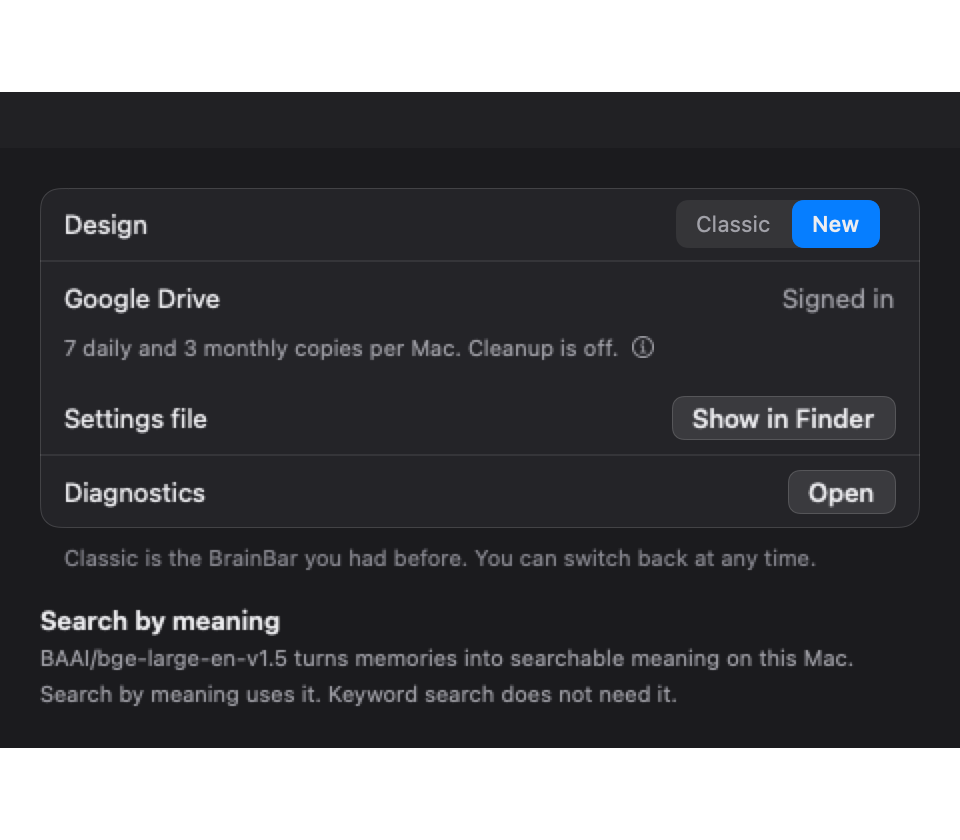
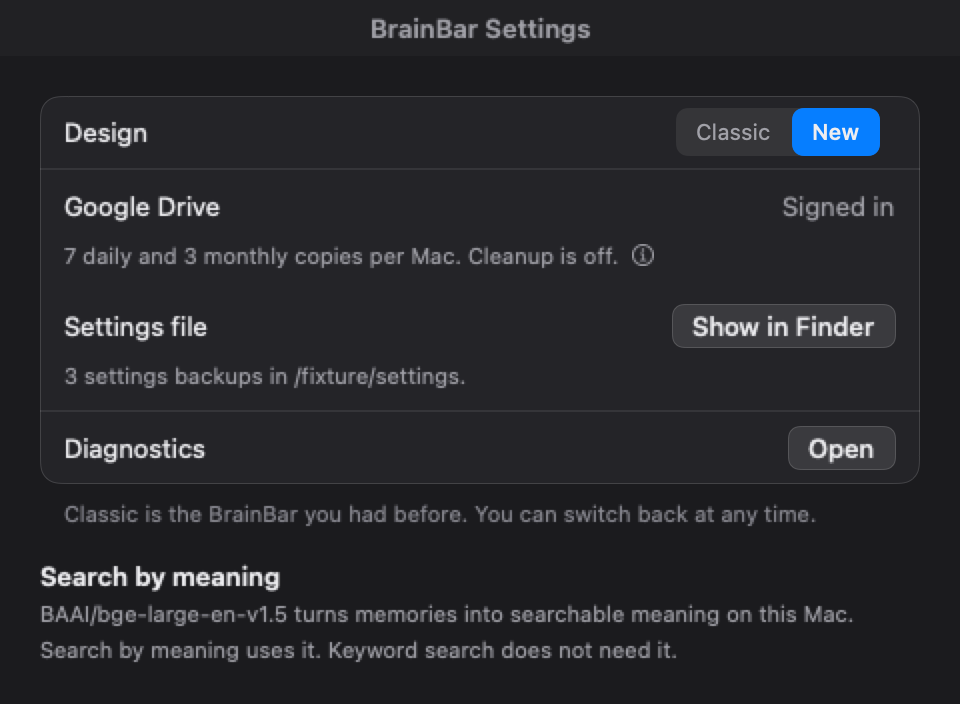
docs: refresh Drive retention review pictures

diff --git a/proof/drive-retention/README.md b/proof/drive-retention/README.md
@@ -1,41 +1,47 @@
-# Drive retention Settings proof
+# Drive retention Settings, round 2
 
-Before source: ee75fad98c621ad743b279e78ecc1acd9a8396ed (origin/main source bytes in the assigned worktree).
-After source: 696316c161681ade4643e98bc41cc56d5811798b.
+After source: 44f69350a4e8bb11d33db4ffedcf564fd3db7ad9. Previous proof: 84b279cb2697221a9b315c7903590c4699cfb8d1.
+Before: preserved round-1 baseline captures at ee75fad98, cropped to the rendered bounds.
+After: real SwiftUI New Settings, Classic Drive row and shared sheet, drawn offscreen by
+NDRenderHarness using invented fixtures only. Transparent capture margins are cropped.
+New captures use their intrinsic fitting height and include the fixture's settings-backups line.
+Classic uses its existing dark palette in either system appearance, so it is shown once.
+The not_run payload has error=null. The measured fixture separates eight verified rule-kept
+copies and two unverified copies on Mac A; Mac B has ten verified copies and no unverified copies.
+Those cohorts are never added to on_drive, kept, or would_remove.
 
-All inputs are invented. Real New Settings and Classic Settings' Google Drive section,
-and the shared SwiftUI sheet, rendered off screen with NDRenderHarness. No application,
-window, menu, production log, database or BrainBar socket was opened.
-Classic section captures carry the actual Settings background and foreground colors.
-New Settings includes its content and title-bar material; transparent canvas margins are
-outside that content. The native system sheet animation and pointer interaction were
-not exercised under this Mac's no-window restriction.
-
-Daily/monthly counts are display values. Cleanup is OFF and DISABLED. Confirmation is
-an unreachable component capture, not an enabled production state. No Drive writes exist.
-Absent, stale, unmeasurable and null evidence never invents zero counts.
-
-Baseline regression: 4 tests; 3 failing cases / 5 assertions, with the absent-section control passing.
+Cleanup is off and disabled. The confirmation is an unreachable component capture.
+No app, window, menu, production data, log, socket, Drive writer or live interaction was used.
+System sheet presentation, Done/Escape and installed-app acceptance remain release checks.
+The first five round-2 regressions failed on 696316c1: 14 assertions, including a measured
+108 pt increment for a three-line Mac. Updated checks include drawn copy and layout heights.
 
 ## Pictures
 
+- [after-classic-settings-config-error-dark.png](after-classic-settings-config-error-dark.png)
 - [after-classic-settings-measured-dark.png](after-classic-settings-measured-dark.png)
-- [after-classic-settings-measured-light.png](after-classic-settings-measured-light.png)
 - [after-classic-settings-missing-dark.png](after-classic-settings-missing-dark.png)
-- [after-classic-settings-missing-light.png](after-classic-settings-missing-light.png)
 - [after-confirmation-unreachable-dark.png](after-confirmation-unreachable-dark.png)
+- [after-new-settings-config-error-dark.png](after-new-settings-config-error-dark.png)
+- [after-new-settings-config-error-light.png](after-new-settings-config-error-light.png)
 - [after-new-settings-measured-dark.png](after-new-settings-measured-dark.png)
 - [after-new-settings-measured-light.png](after-new-settings-measured-light.png)
 - [after-new-settings-missing-dark.png](after-new-settings-missing-dark.png)
 - [after-new-settings-missing-light.png](after-new-settings-missing-light.png)
+- [after-sheet-long-error-dark.png](after-sheet-long-error-dark.png)
 - [after-sheet-measured-dark.png](after-sheet-measured-dark.png)
 - [after-sheet-measured-light.png](after-sheet-measured-light.png)
 - [after-sheet-missing-dark.png](after-sheet-missing-dark.png)
 - [after-sheet-missing-light.png](after-sheet-missing-light.png)
 - [after-sheet-not_run-dark.png](after-sheet-not_run-dark.png)
+- [after-sheet-not_run-light.png](after-sheet-not_run-light.png)
+- [after-sheet-null-summary-dark.png](after-sheet-null-summary-dark.png)
+- [after-sheet-null-summary-light.png](after-sheet-null-summary-light.png)
 - [after-sheet-stale-dark.png](after-sheet-stale-dark.png)
+- [after-sheet-stale-light.png](after-sheet-stale-light.png)
+- [after-sheet-three-line-dark.png](after-sheet-three-line-dark.png)
 - [after-sheet-unmeasurable-dark.png](after-sheet-unmeasurable-dark.png)
+- [after-sheet-unmeasurable-light.png](after-sheet-unmeasurable-light.png)
 - [before-classic-settings-missing-dark.png](before-classic-settings-missing-dark.png)
-- [before-classic-settings-missing-light.png](before-classic-settings-missing-light.png)
 - [before-new-settings-missing-dark.png](before-new-settings-missing-dark.png)
 - [before-new-settings-missing-light.png](before-new-settings-missing-light.png)
